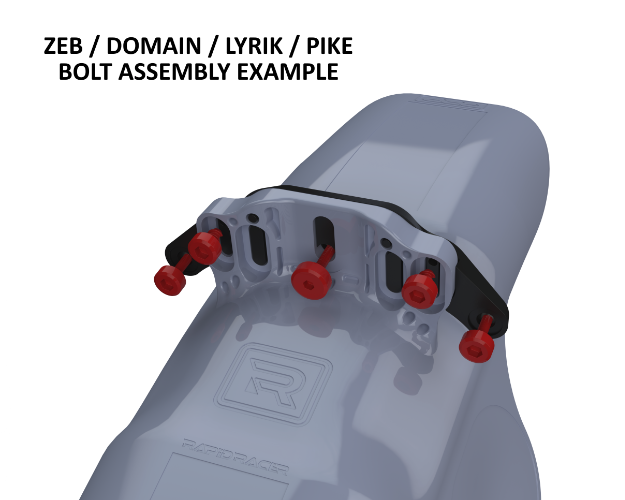
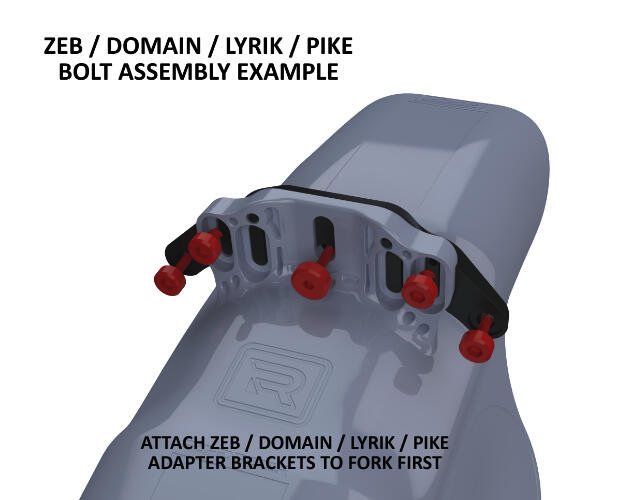
Updates to ProGuard v2

Changed region(s): [[0.2128, 0.87, 0.7296, 0.96]]

diff --git a/src/templates/pages/products/mudguards/proguard-bolt-on-v2.html b/src/templates/pages/products/mudguards/proguard-bolt-on-v2.html
@@ -18,6 +18,7 @@ altVersion: {
 productOverview:
   [
     "The ProGuard – BOLT ON is the first large direct mount mudguard of its type, it offers outstanding protection with the slickest most factory look available. There are no cable ties or hook and loop straps to ruin the clean lines on your bike as they are secured by bolts (supplied). We also have TILT BRACKETS which allow you to fine tune the fit angle of the mudguard, you can tilt the front/back up or down a few millimetres with 2 brackets (supplied).",
+    "Some forks will require either a Stability Bracket or an Adapter Bracket to fit, check out the Fork Compatibility List link below to find you fork."
   ]
 productSizes:
   {
@@ -28,6 +29,7 @@ productSizes:
         { size: "Standard", weight: 503mm long 121g (without bolts) },
         { size: "Max Protection", weight: 600mm long 137g (without bolts) },
       ],
+      note: "MAX PROTECTION NOT SUITABLE FOR DH"
   }
 productOptions:
   {
@@ -248,8 +250,7 @@ ukDistributor: [EXTRA UK]
 tabsNav:
   [
     { link: Details, id: details, activeClass: is-active },
-    { link: Fitting, id: fitting },
-    { link: Reviews, id: reviews },
+    { link: Fitting, id: fitting }
   ]
 reviews:
   [
@@ -306,9 +307,6 @@ reviews:
         </div>
         <div id="fitting" class="c-tabs__content">
           {% include "fitting-proguard-bolt-on-v2.nunjucks" %}
-        </div>
-        <div id="reviews" class="c-tabs__content">
-          {% include "reviews.nunjucks" %}
         </div>
       </div>
     </div>

diff --git a/src/styles/g-components/global/_site-nav.scss b/src/styles/g-components/global/_site-nav.scss
@@ -76,7 +76,7 @@
     }
     @include bp(30) {
       float: right;
-      margin-right: rem(132px);
+      margin-right: rem(200px);
 
       &__list {
         display: flex;
